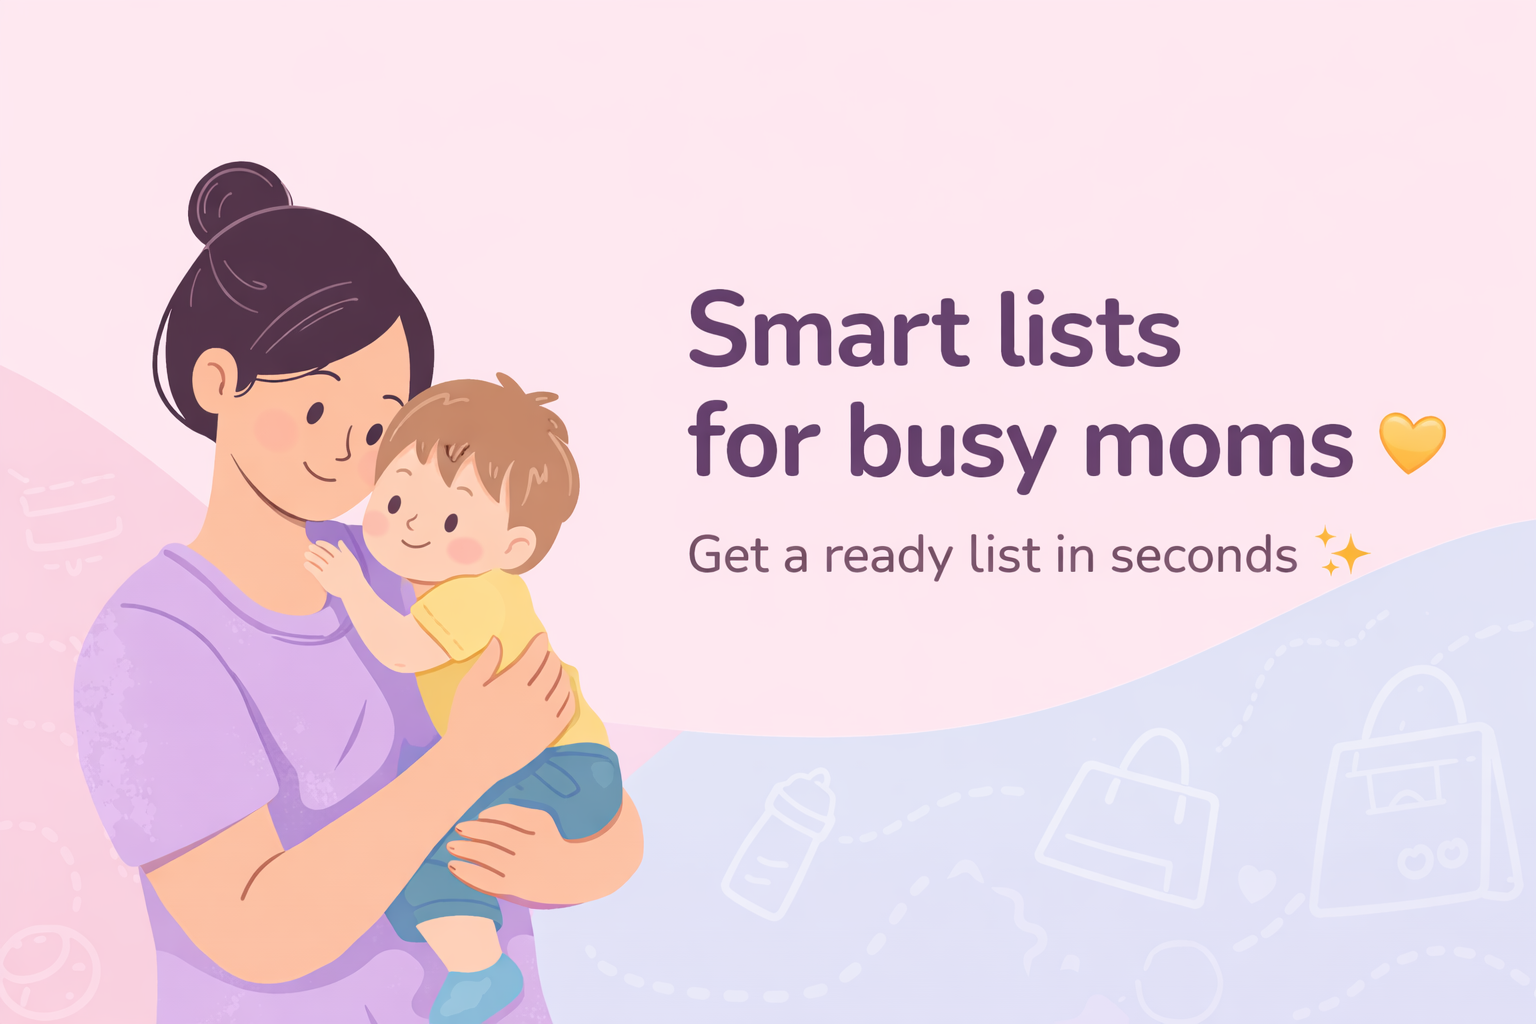
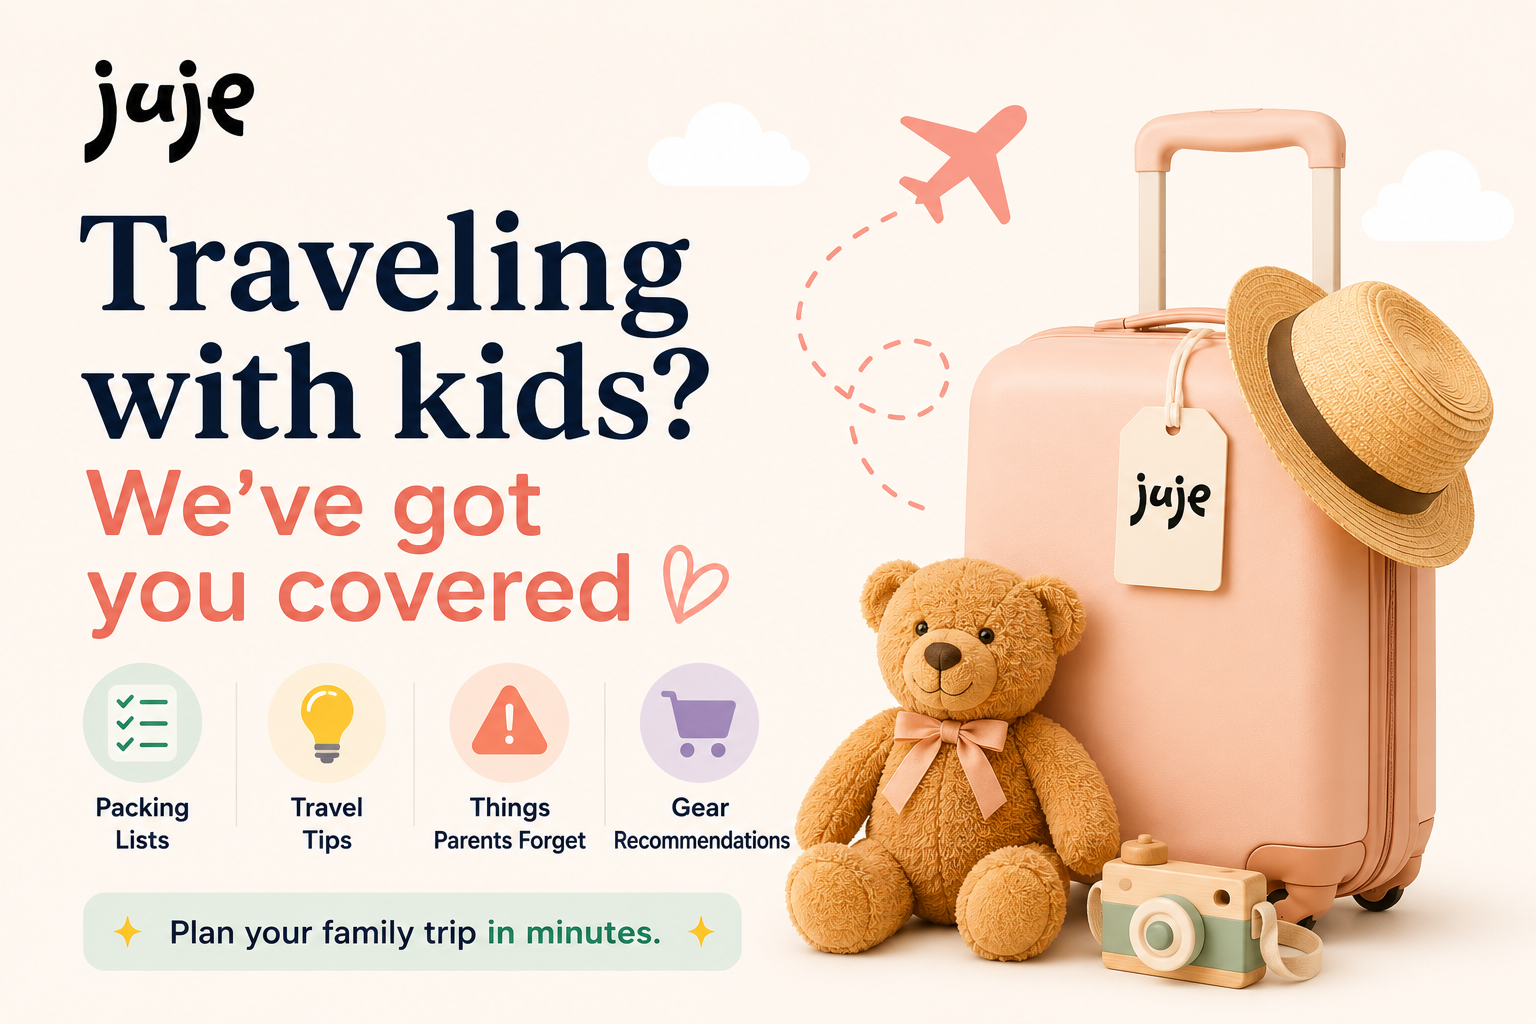
- Updated `index.html`: Refactored `savePlan()` to use the Web Share API (`navigator.share`) when available, providing a seamless mobile experience. - Implemented error handling and a fallback `window.prompt` for desktop or unsupported browsers. - Updated `AI/PRD.md`: Added "Native Mobile Sharing" t

diff --git a/src/main/resources/static/index.html b/src/main/resources/static/index.html
@@ -356,14 +356,34 @@
     }
 
     async function savePlan() {
-        const res = await fetch('/api/v1/save-plan', {
-            method: 'POST',
-            headers: { 'Content-Type': 'application/json' },
-            body: JSON.stringify(currentPlan)
-        });
-        const data = await res.json();
-        const url = window.location.origin + '/plan-view.html?id=' + data.id;
-        prompt("Copy this link to share your plan:", url);
+        try {
+            const res = await fetch('/api/v1/save-plan', {
+                method: 'POST',
+                headers: { 'Content-Type': 'application/json' },
+                body: JSON.stringify(currentPlan)
+            });
+
+            if (!res.ok) {
+                throw new Error("Failed to save plan");
+            }
+
+            const data = await res.json();
+            const shareUrl = window.location.origin + '/plan-view.html?id=' + data.id;
+
+            if (navigator.share) {
+                await navigator.share({
+                    title: "My JUJE Family Travel Plan",
+                    text: "Here’s a family travel plan with packing checklist, tips and gear recommendations 💛",
+                    url: shareUrl
+                });
+            } else {
+                window.prompt("Copy this link to share your plan:", shareUrl);
+            }
+
+        } catch (error) {
+            console.error(error);
+            alert("Something went wrong while saving or sharing the plan.");
+        }
     }
 
 

diff --git a/AI/PRD.md b/AI/PRD.md
@@ -14,6 +14,7 @@ The app features a high-impact landing page that immediately communicates value,
 4.  **Trip Details**: Duration, Destination (optional), and Weather.
 5.  **Plan Generation**: Engaging loading screen with travel-themed animations and concise mobile-optimized results.
 6.  **Export/Print**: User can print the checklist.
+7.  **Native Sharing**: User can share the plan using the native mobile share sheet or by copying a link.
 
 ## 4. Functional Requirements
 
@@ -34,8 +35,9 @@ The app features a high-impact landing page that immediately communicates value,
 *   Must be relevant to the specific trip scenario and child age.
 *   Displayed prominently in the middle of the results page for better visibility.
 
-### 4.5. Future Monetization Preparation
-*   Include placeholders for travel resources like eSIM providers, insurance, and lounge access.
+### 4.6. Native Mobile Sharing
+*   **Web Share API**: Integration with the native mobile share sheet for seamless sharing to WhatsApp, Messenger, etc.
+*   **Desktop Fallback**: Automated link copying for browsers that do not support native sharing.
 
 ## 5. Success Metrics
 *   User engagement with the checklist (items checked).

diff --git a/AI/TechSpec.md b/AI/TechSpec.md
@@ -65,7 +65,9 @@ The AI prompt will be redesigned to return a structured JSON containing all four
     *   **Priority Order**: 1. Reminders, 2. Recommended Gear, 3. Quick Tips, 4. Full Packing Checklist.
     *   **Accordion UI**: Packing checklist categories are collapsed by default.
     *   **Mobile-First**: Reduced product card heights and grid layouts.
-*   **Export**: Print support for physical checklists.
+*   **Export/Share**: 
+    *   Print support for physical checklists.
+    *   Native mobile sharing via Web Share API with a desktop fallback (prompt).
 
 ## 6. Implementation Phases
 1.  **Phase 1**: Backend Refactoring (DTOs, Controller, Service).